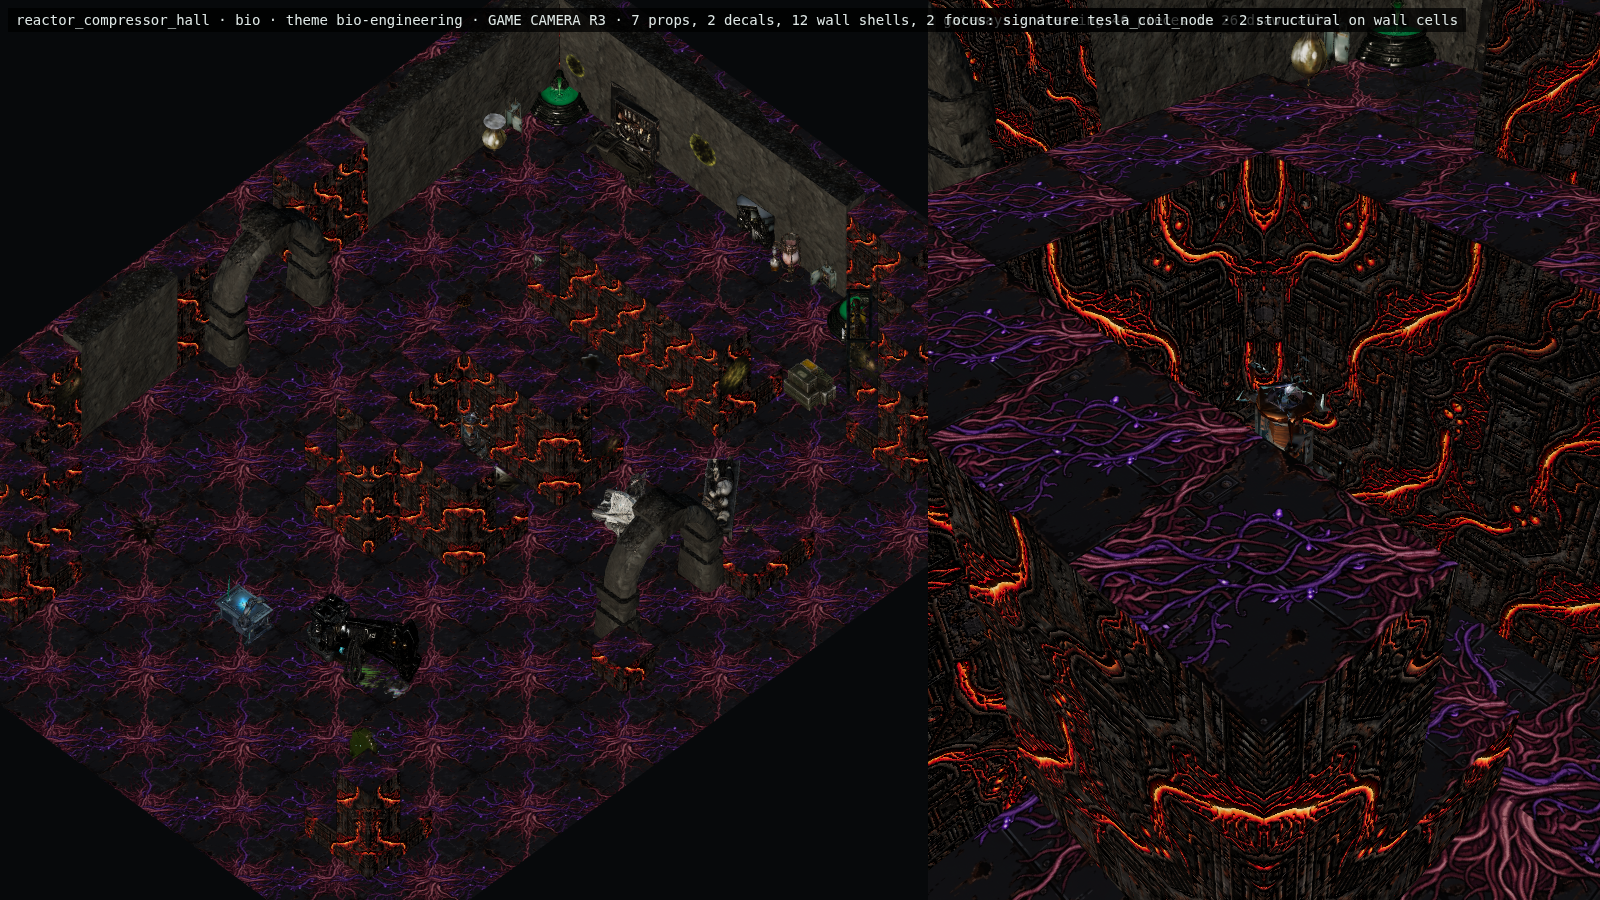
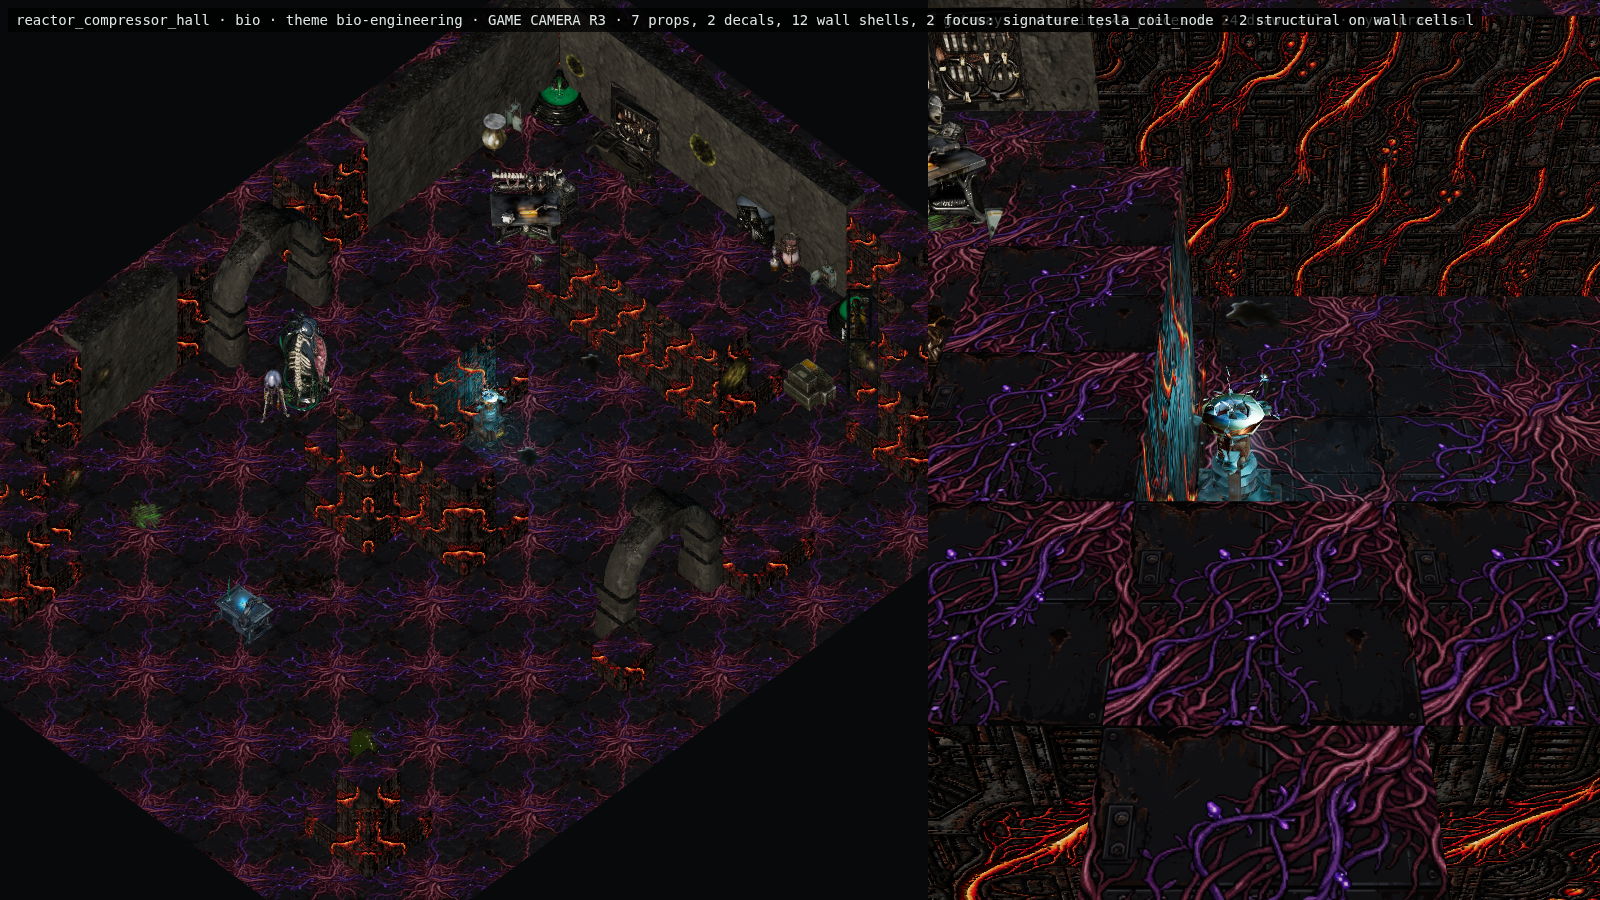
feat(levels): turn O2 room into a broken-ring route

diff --git a/src/data/roomBuilds.js b/src/data/roomBuilds.js
@@ -140,27 +140,47 @@ export const ROOM_BUILD_CATALOG = Object.freeze([
     Object.freeze({
         id: 'o2_scrubber',
         family: 'o2',
-        pattern: rectRoomPattern(13, 11, [{ x: 5, y: 4, w: 3, h: 3 }]),
+        // P1 broken-ring proof. The crown and two legs form an open-bottomed
+        // scrubber housing: entry from the north splits around it, both paths
+        // rejoin at the south, and only then can the player turn back into the
+        // protected control cavity. Geometry stays fixed across repair states.
+        pattern: authoredRoomPattern([
+            '.............',
+            '.............',
+            '.............',
+            '.....###.....',
+            '....##.##....',
+            '....#...#....',
+            '....#...#....',
+            '.............',
+            '.............',
+            '.............',
+            '.............'
+        ]),
         sockets: [{ id: 'entry', side: 'n', width: 3, required: true }],
         rotationPolicy: 'cardinal',
         tierEligibility: [1, 2, 3],
         biomeEligibility: ['active', 'cryo', 'bio'],
         roles: ['objective', 'shipGoalObjective'],
-        structuralAnchors: [{ id: 'scrubber_column', type: 'prop_conduit_hub', x: 6, y: 5 }],
+        structuralAnchors: [{ id: 'scrubber_column', type: 'prop_conduit_hub', x: 6, y: 3 }],
         // 'o2_control' matches src/ringManifest.js's MANDATORY_SHIP_GOALS
         // objectiveAnchorId for the o2Bubble goal exactly — this is the
         // ship-critical objective the manifest layer resolves by that id.
         // prop_o2_filter_vat: dedicated signature sprite for the ship-goal
         // objective anchor, replacing the placeholder 'console' type that
         // resolved to no texture.
-        interactionAnchors: [{ id: 'o2_control', type: 'prop_o2_filter_vat', x: 6, y: 8 }],
+        interactionAnchors: [{ id: 'o2_control', type: 'prop_o2_filter_vat', x: 6, y: 5 }],
+        signatureAnchorId: 'o2_control',
         compassAnchors: { approach: 'entry', objective: 'o2_control' },
-        coverZones: [{ x: 5, y: 4, w: 3, h: 3 }],
-        encounterZones: [{ id: 'scrubber_guard', x: 1, y: 1, w: 11, h: 3 }],
+        coverZones: [{ x: 4, y: 3, w: 2, h: 4 }, { x: 7, y: 3, w: 2, h: 4 }],
+        encounterZones: [{ id: 'scrubber_guard', x: 1, y: 7, w: 11, h: 3 }],
         rewardAnchors: [],
-        loreAnchors: [{ id: 'engineering_log', type: 'lore_terminal', x: 1, y: 9 }],
-        hazardZones: [],
-        quietZones: [],
+        loreAnchors: [{ id: 'engineering_log', type: 'lore_terminal', x: 2, y: 8 }],
+        // The east exhaust is hazardous while the west intake remains the
+        // clean service route. Repair changes presentation/state, never the
+        // collision layout, so deterministic saves see one stable room.
+        hazardZones: [{ id: 'exhaust_leak', x: 9, y: 4, w: 3, h: 3 }],
+        quietZones: [{ x: 5, y: 4, w: 3, h: 3 }],
         safeZone: false,
         containmentBounds: { minX: 0, minY: 0, maxX: 12, maxY: 10 },
         presentationVariants: ['idle', 'leaking', 'repaired'],
@@ -479,9 +499,9 @@ export const ROOM_BUILD_CATALOG = Object.freeze([
             '...................',
             '.......#####..##...',
             '......######..##...',
-            '......###.##..##...',
-            '.......##.##..##...',
-            '.......##.##..##...',
+            '......###.....##...',
+            '.......##.....##...',
+            '.......##.....##...',
             '..............##...',
             '..................#',
             '.................##',
@@ -503,7 +523,7 @@ export const ROOM_BUILD_CATALOG = Object.freeze([
         // not an interaction/objective anchor, so it does not invent a second
         // gameplay prompt beside the real compressor control.
         signatureAnchors: [
-            { id: 'compressor_drive', type: 'prop_tesla_coil_node', x: 9, y: 6, blocking: true }
+            { id: 'compressor_drive', type: 'prop_tesla_coil_node', x: 10, y: 6, blocking: true }
         ],
         // MANDATORY_SHIP_GOALS reactorCompressor -> objectiveAnchorId, exactly.
         interactionAnchors: [

diff --git a/src/roomBuilds.test.js b/src/roomBuilds.test.js
@@ -87,21 +87,21 @@ describe('ROOM_BUILD_CATALOG', () => {
             '...................',
             '.......#####..##...',
             '......######..##...',
-            '......###.##..##...',
-            '.......##.##..##...',
-            '.......##.##..##...',
+            '......###.....##...',
+            '.......##.....##...',
+            '.......##.....##...',
             '..............##...',
             '..................#',
             '.................##',
             '................###'
         ]);
-        expect(build.pattern[6]).toBe('......###.##..##...');
+        expect(build.pattern[6]).toBe('......###.....##...');
         expect(build.pattern[6].slice(12, 14)).toBe('..');
         expect(build.hazardZones).toContainEqual(expect.objectContaining({
             id: 'coolant_plume', x: 12, y: 4, w: 2, h: 5
         }));
         expect(build.signatureAnchors).toContainEqual(expect.objectContaining({
-            id: 'compressor_drive', type: 'prop_tesla_coil_node', x: 9, y: 6
+            id: 'compressor_drive', type: 'prop_tesla_coil_node', x: 10, y: 6
         }));
         expect(build.structuralAnchors).toContainEqual(expect.objectContaining({
             id: 'coolant_manifold', x: 14, y: 6
@@ -119,6 +119,40 @@ describe('ROOM_BUILD_CATALOG', () => {
         for (let y = 4; y < 9; y += 1) {
             expect(build.pattern[y].slice(12, 14), `hot bypass clearance row ${y}`).toBe('..');
         }
+    });
+
+    it('turns the mandatory O2 room into a two-sided broken-ring repair route', () => {
+        const build = ROOM_BUILD_CATALOG.find((entry) => entry.id === 'o2_scrubber');
+        expect(build.pattern).toEqual([
+            '.............',
+            '.............',
+            '.............',
+            '.....###.....',
+            '....##.##....',
+            '....#...#....',
+            '....#...#....',
+            '.............',
+            '.............',
+            '.............',
+            '.............'
+        ]);
+        expect(computeApproachPoint(build)).toEqual({ x: 6, y: 2 });
+        expect(build.signatureAnchorId).toBe('o2_control');
+        expect(build.interactionAnchors).toContainEqual(expect.objectContaining({
+            id: 'o2_control', x: 6, y: 5
+        }));
+        expect(build.hazardZones).toContainEqual(expect.objectContaining({
+            id: 'exhaust_leak', x: 9, y: 4, w: 3, h: 3
+        }));
+
+        const approach = computeApproachPoint(build);
+        const control = { x: 6, y: 5 };
+        const eastExhaust = new Set();
+        for (let y = 4; y < 7; y += 1) for (let x = 9; x < 12; x += 1) eastExhaust.add(`${x},${y}`);
+        const westService = new Set();
+        for (let y = 3; y < 8; y += 1) for (let x = 0; x < 4; x += 1) westService.add(`${x},${y}`);
+        expect(shortestPatternPath(build.pattern, approach, control, eastExhaust)).toBeLessThan(Infinity);
+        expect(shortestPatternPath(build.pattern, approach, control, westService)).toBeLessThan(Infinity);
     });
 
     it.each(ROOM_BUILD_CATALOG.map((build) => [build.id, build]))('%s is internally valid', (_, build) => {

diff --git a/tests/e2e/probes/p1-o2-gameplay-camera.spec.js b/tests/e2e/probes/p1-o2-gameplay-camera.spec.js
@@ -1,0 +1,19 @@
+import { test, expect } from '@playwright/test';
+
+// P1 broken-ring proof: the mandatory O2 room must preserve its split,
+// rejoin and protected control cavity under every cardinal rotation.
+for (let rotation = 0; rotation < 4; rotation += 1) {
+    test(`P1 O2 game camera — R${rotation}`, async ({ page }) => {
+        await page.setViewportSize({ width: 1600, height: 900 });
+        await page.goto(`/tests/e2e/fixtures/furnished-room-showroom.html?build=o2_scrubber&biome=active&review=gameplay&rotation=${rotation}`);
+        await page.waitForFunction(() => window.__showroom?.ready === true, null, { timeout: 90_000 });
+        const result = await page.evaluate(() => window.__showroom);
+        expect(result.reviewMode).toBe(true);
+        expect(result.rotation).toBe(rotation);
+        expect(result.cutawayCells).toBeGreaterThan(0);
+        expect(result.props + result.decals).toBeGreaterThan(0);
+        await page.screenshot({
+            path: `docs/reports/assets/furnished-rooms/p1-o2_scrubber-game-camera-r${rotation}.png`
+        });
+    });
+}

diff --git a/src/anchorPracticalLight.js b/src/anchorPracticalLight.js
@@ -18,7 +18,7 @@ export const ANCHOR_LIGHT_PALETTE = Object.freeze({
 
 // First match wins; cyan before green so a "biomech oxygen" piece reads cold.
 const PALETTE_RULES = Object.freeze([
-    { palette: 'cyan', match: /oxygen|coolant|cryo|o2_|frost|icey|thermal|water_still/ },
+    { palette: 'cyan', match: /oxygen|coolant|cryo|o2_|frost|icey|thermal|water_still|medical_bed|tesla_coil/ },
     { palette: 'amber', match: /lectern|votive|shrine|reliquary|saint|liturgical|candle|barrel_heater|flood_lamp|pheromone_censer|scent_distiller|warmth_hearth|checkpoint_post|wayfinding_totem|seismic_drill|devotion_tree|meat_smoking_rack/ },
     { palette: 'green', match: /biomech|spore|fungal|hive|flesh|umbilical|alien|incubator|mycelium/ }
 ]);

diff --git a/src/anchorPracticalLight.test.js b/src/anchorPracticalLight.test.js
@@ -10,6 +10,8 @@ describe('anchor practical light (lived-in world M4)', () => {
         expect(anchorPaletteFor('prop_biomech_sphincter_hatch_vent')).toBe('green');
         expect(anchorPaletteFor('prop_biomech_tracheal_wall_pipe')).toBe('green');
         expect(anchorPaletteFor('life_water_still')).toBe('cyan');
+        expect(anchorPaletteFor('prop_medical_bed')).toBe('cyan');
+        expect(anchorPaletteFor('prop_tesla_coil_node')).toBe('cyan');
         expect(anchorPaletteFor('life_barrel_heater')).toBe('amber');
         expect(anchorPaletteFor('life_pheromone_censer')).toBe('amber');
         expect(anchorPaletteFor('prop_bunker_supplies')).toBeNull();

diff --git a/docs/planning/n64-architectural-level-design-overhaul-2026-10-10.md b/docs/planning/n64-architectural-level-design-overhaul-2026-10-10.md
@@ -615,7 +615,8 @@ Verification for this slice:
   supply-side return, and quiet threshold apron.
 - `reactor_compressor_hall`: one asymmetric compressor island, subordinate heat shield, wide safe
   service loop, shorter hazardous bypass, chamfered opposing corners, and a flank control that
-  both routes can reach.
+  both routes can reach. Rotation review widened its drive aperture from one cell to three so the
+  machine, rather than its enclosing wall, owns the focal silhouette.
 - `room_biomech_machine_nave`: seven-cell processional axis, open transept, four shallow side
   chapels, reward/lore opposition, and a combat zone that stops short of the apse.
 - Authored signature hierarchy: the population planner promotes a structural or interaction anchor
@@ -624,11 +625,42 @@ Verification for this slice:
   and apse lectern rather than a random theme prop.
 - Route tests prove the compressor's hot path is shorter, its plume-blocked service route remains
   legal, its north exit remains reachable, and the two-cell bypass preserves companion clearance.
+- Medical beds and Tesla drives now map to the restrained cyan practical family. Authored
+  signatures in all three proof rooms therefore produce an actual focal light, not only metadata.
 
 The fixed orthographic review harness now captures all four rotations with the production cutaway
 planner; evidence lives at `docs/reports/assets/furnished-rooms/p0a-*-game-camera-r*.png`.
-Remaining P0A gates: live in-campaign threshold/return captures, biome contrast review, companion
-passage, and an explicit saved-campaign geometry policy.
+Remaining P0A gates: live in-campaign threshold/return captures, biome contrast review, and
+companion passage. Save policy is now explicit below; its required version gate is not implemented.
+
+### 9.6.1 Lane A P1: mandatory O2 broken ring
+
+`o2_scrubber` is the first P1 extension because it is the mandatory O2 ship-goal destination,
+eligible in tiers 1–3 and all biomes. The old centered 3×3 block is now a thin stepped U-shaped
+housing. Its verb is **split → circle → rejoin → enter**: the north approach divides around the
+crown; a leaking east exhaust and clean west service route reconnect south of the machine; the
+player then turns back into the quiet control cavity. The progression-stable `o2_control` id is
+unchanged and now owns signature status and a cyan task light.
+
+Route tests prove that either flank remains sufficient when the other is blocked. Four fixed
+orthographic rotation/cutaway captures live at
+`docs/reports/assets/furnished-rooms/p1-o2_scrubber-game-camera-r*.png`.
+
+P1 pacing order after this systemic room: `room_stasis_bunk_sepulcher` for quiet human-scale
+release, then `room_quarantine_airlock_threshold` for renewed compression.
+
+### 9.6.2 Authored-geometry persistence gate
+
+The existing `ROOM_BUILD_VERSION` is only exported; it is not serialized or compared. Neither
+campaign `interiorVersion`, macro `layoutVersion`, nor `WORLD_PLAN_VERSION` pins room-pattern data.
+An old reload can therefore stamp new geometry and reapply coordinate-keyed walls, doors,
+discovery, dressing damage, or suspended actors to the wrong cells.
+
+Policy until implementation: redesigned authored rooms are new-map/disposable-profile only. Before
+shipping them into a build that promises campaign resume, persist a distinct `roomBuildVersion` in
+authored-world and suspend identity; missing or mismatched versions must discard map-local state
+and enter `beginNewRun`, preserving story and world transformations but not coordinates. Do not
+reuse `interiorVersion`, whose contract is room-grammar selection.
 
 ### 9.7 Lane B work log (Claude lived-in lane)
 
@@ -923,3 +955,7 @@ that, differently from §7.5's first idea of distant beacons, which this camera 
 - 2026-10-10: Lane A's three P0A rooms now have fixed orthographic gameplay-camera and production
   cutaway review captures in all four rotations. Twelve views pass structural review; live
   threshold/return play and persistence remain open.
+- 2026-10-10: Lane A widened the compressor focal aperture, added cyan practicals for the medical
+  bed and Tesla drive, and replaced the mandatory O2 room's generic block with a tested broken-ring
+  repair route. Four O2 rotation captures pass. Authored-geometry persistence policy is explicit;
+  the version gate remains implementation work.

diff --git a/docs/planning/world-design-doctrine-n64-lessons-2026-10-10.md b/docs/planning/world-design-doctrine-n64-lessons-2026-10-10.md
@@ -451,12 +451,42 @@ Verified so far: catalog validation, all rotations, connector reachability, sema
 hazardous compressor routes, companion-width hot bypass, population, dressing, destruction
 handling, and fixed orthographic gameplay-camera/cutaway captures for all four rotations. Those
 captures live at `docs/reports/assets/furnished-rooms/p0a-*-game-camera-r*.png`. Live in-campaign
-threshold/return views and saved-campaign geometry policy remain open before P0A sign-off.
+threshold/return views remain open before P0A sign-off. The compressor drive aperture was widened
+to three cells after the rotation review showed the original one-cell recess was visually owned by
+its walls. Medical beds and Tesla drives now receive the same restrained cyan task-light family as
+oxygen/coolant equipment, so authored signature promotion produces a real focal pool.
 
 ### P1 — extend proven shapes
 
 `armory_cage`, `o2_scrubber`, `field_fabricator`, `room_quarantine_airlock_threshold`,
 `room_cyber_surgical_fabrication_ward`, and `room_stasis_bunk_sepulcher`.
+
+`o2_scrubber` is the first P1 proof because it is a mandatory ship-goal room used across three
+tiers and every biome. Its generic centered block is replaced by a thin broken U-ring: the north
+approach splits around a stepped scrubber crown, both routes rejoin south of the machine, and the
+player turns back into a quiet three-cell control cavity. The east exhaust is hazardous; the west
+intake remains the service route. `o2_control` keeps its progression-critical identity and owns the
+cyan focal practical. All four rotation/cutaway captures live at
+`docs/reports/assets/furnished-rooms/p1-o2_scrubber-game-camera-r*.png`.
+
+The next pacing proof is `room_stasis_bunk_sepulcher`, followed by
+`room_quarantine_airlock_threshold`: monumental nave → intimate human-scale release → compressed
+decontamination threshold.
+
+### Authored-geometry save policy
+
+`ROOM_BUILD_VERSION` is not currently persisted or compared. `interiorVersion` selects the room-
+grammar pilot, `layoutVersion` pins macro geography, and `WORLD_PLAN_VERSION` pins reservations;
+none pins the authored pattern catalog. Reloading an older map therefore stamps current patterns
+and can reapply coordinate-keyed wall damage, doors, discovery, or suspended actor positions to
+different geometry.
+
+Until a dedicated authored-geometry version gate lands, these redesigns are approved only for new
+maps/disposable review profiles. A live build with resumable campaigns must persist
+`roomBuildVersion` in authored-world and suspend identity, reject missing/mismatched map-local
+state, and route the player through `beginNewRun`, which already preserves story/world
+transformations while clearing coordinate-local geometry state. Do not repurpose
+`interiorVersion` or claim old-map compatibility.
 
 ### P2 — complete the authored catalog
 
